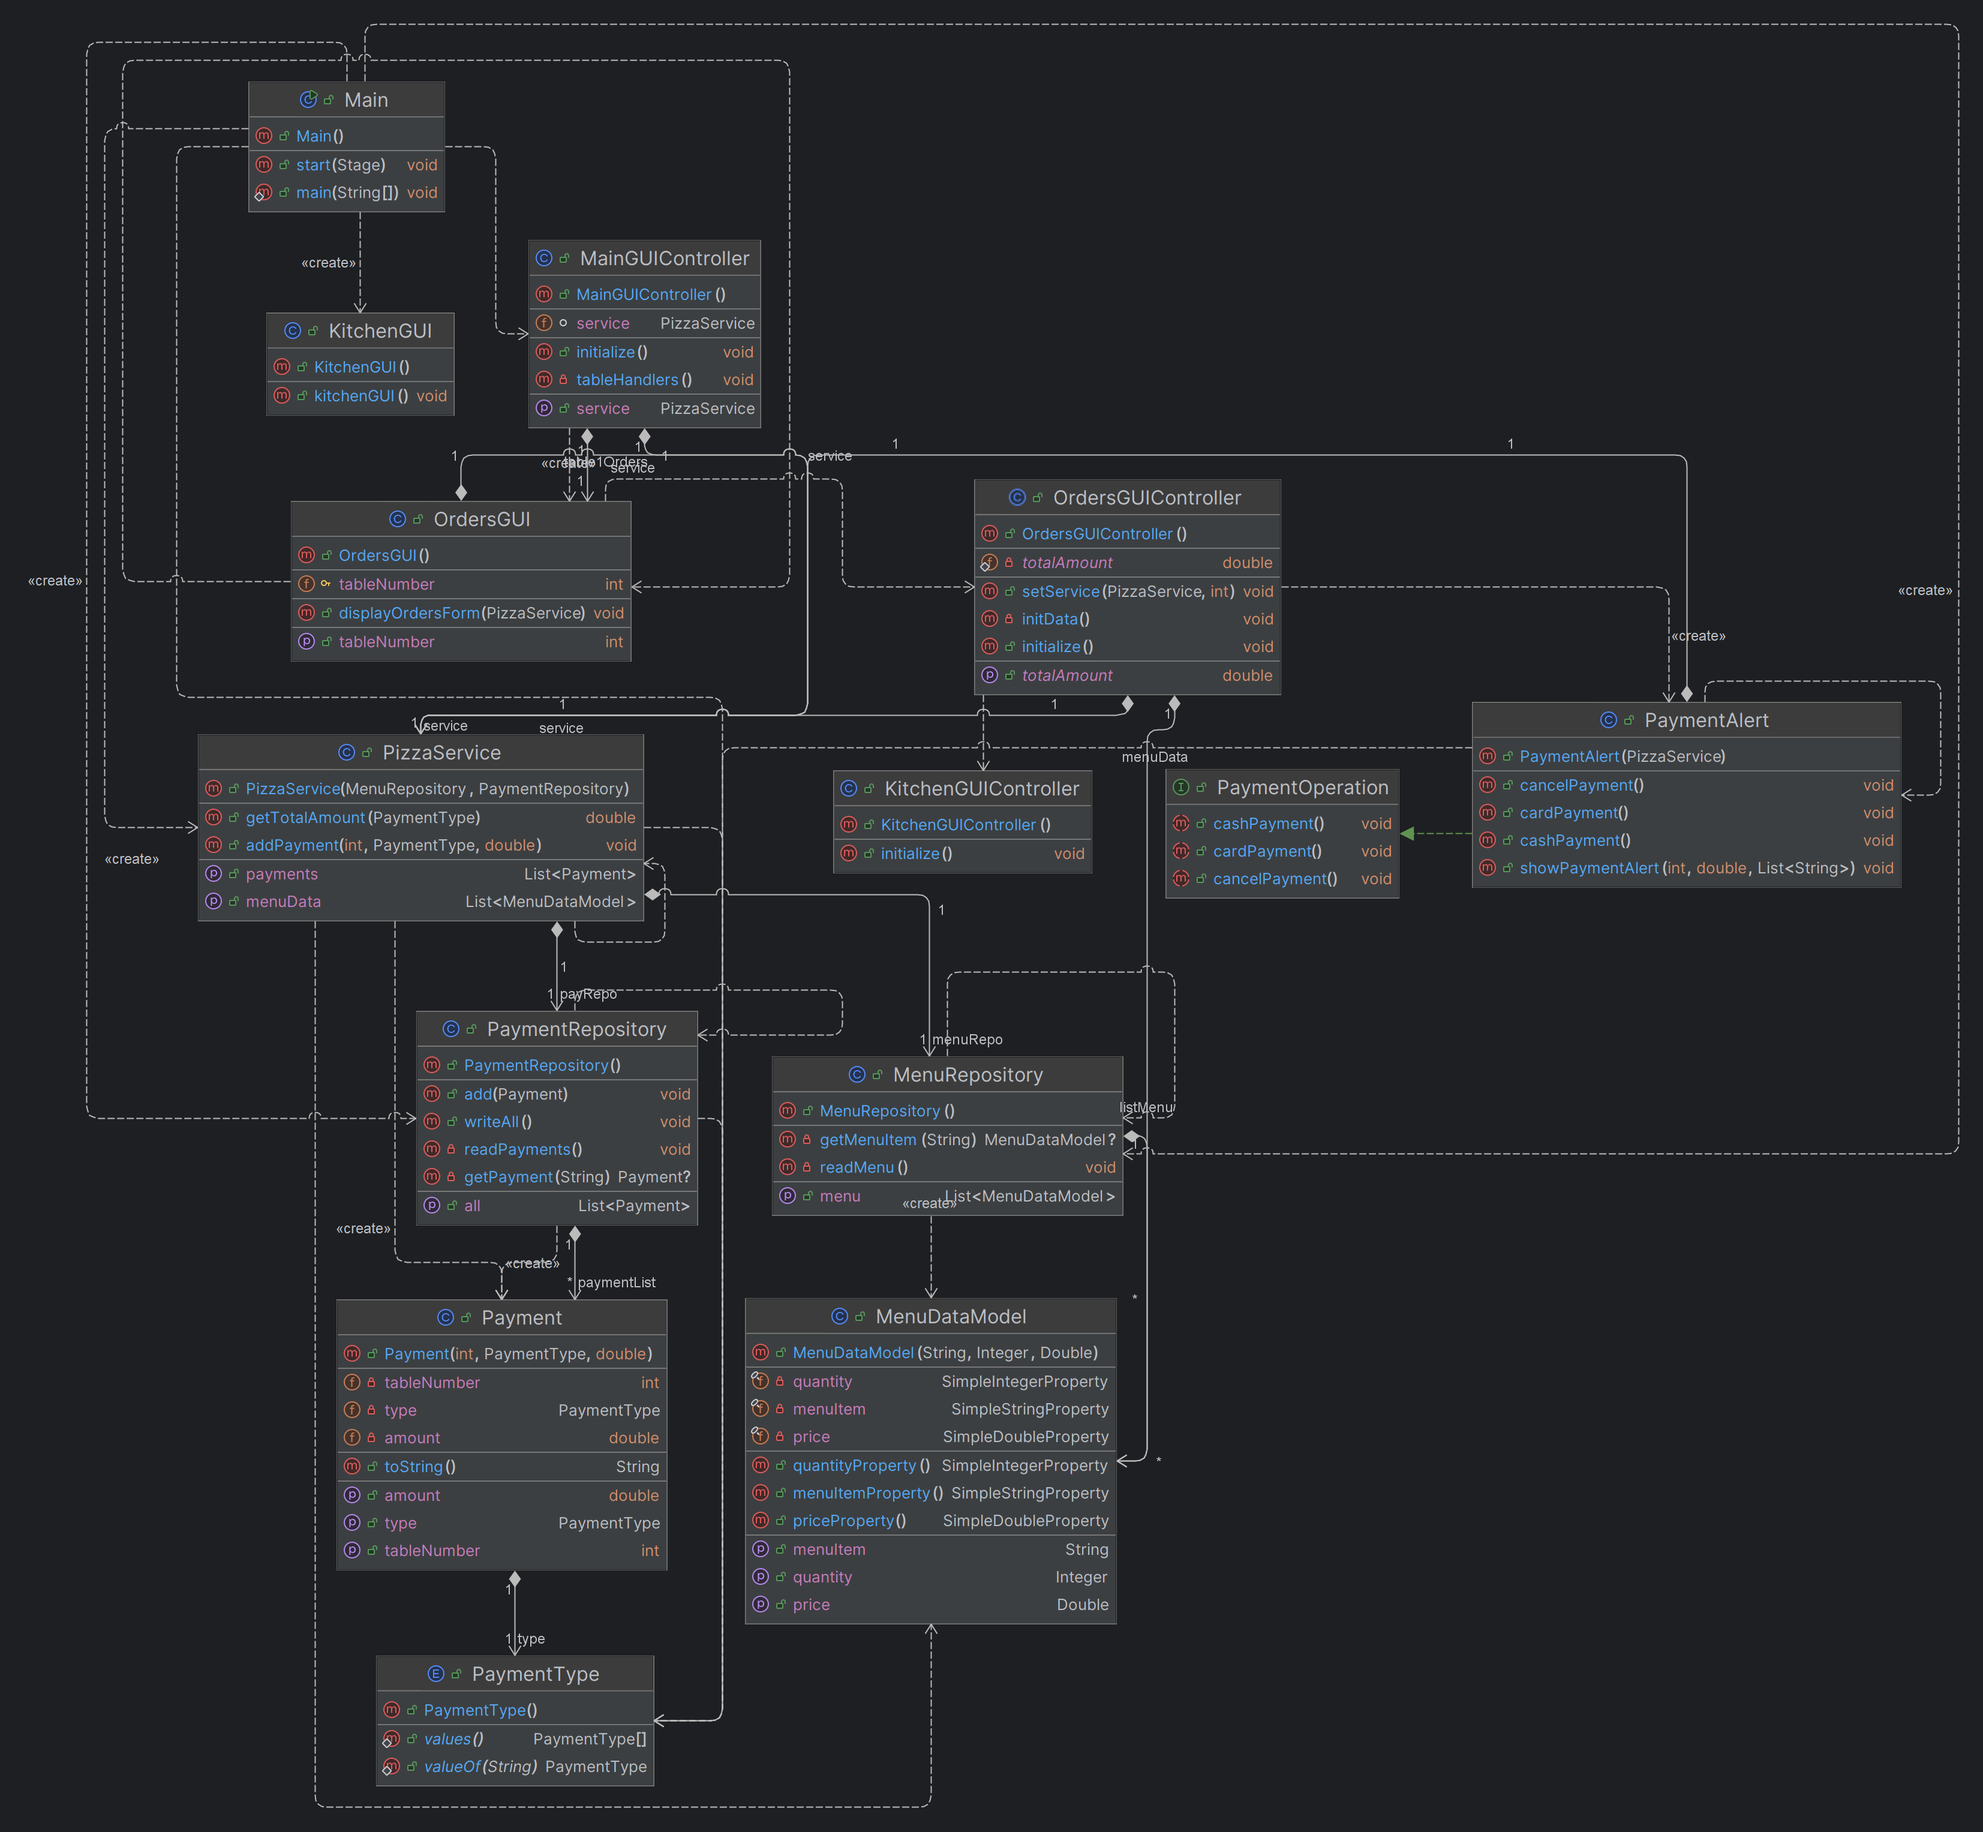
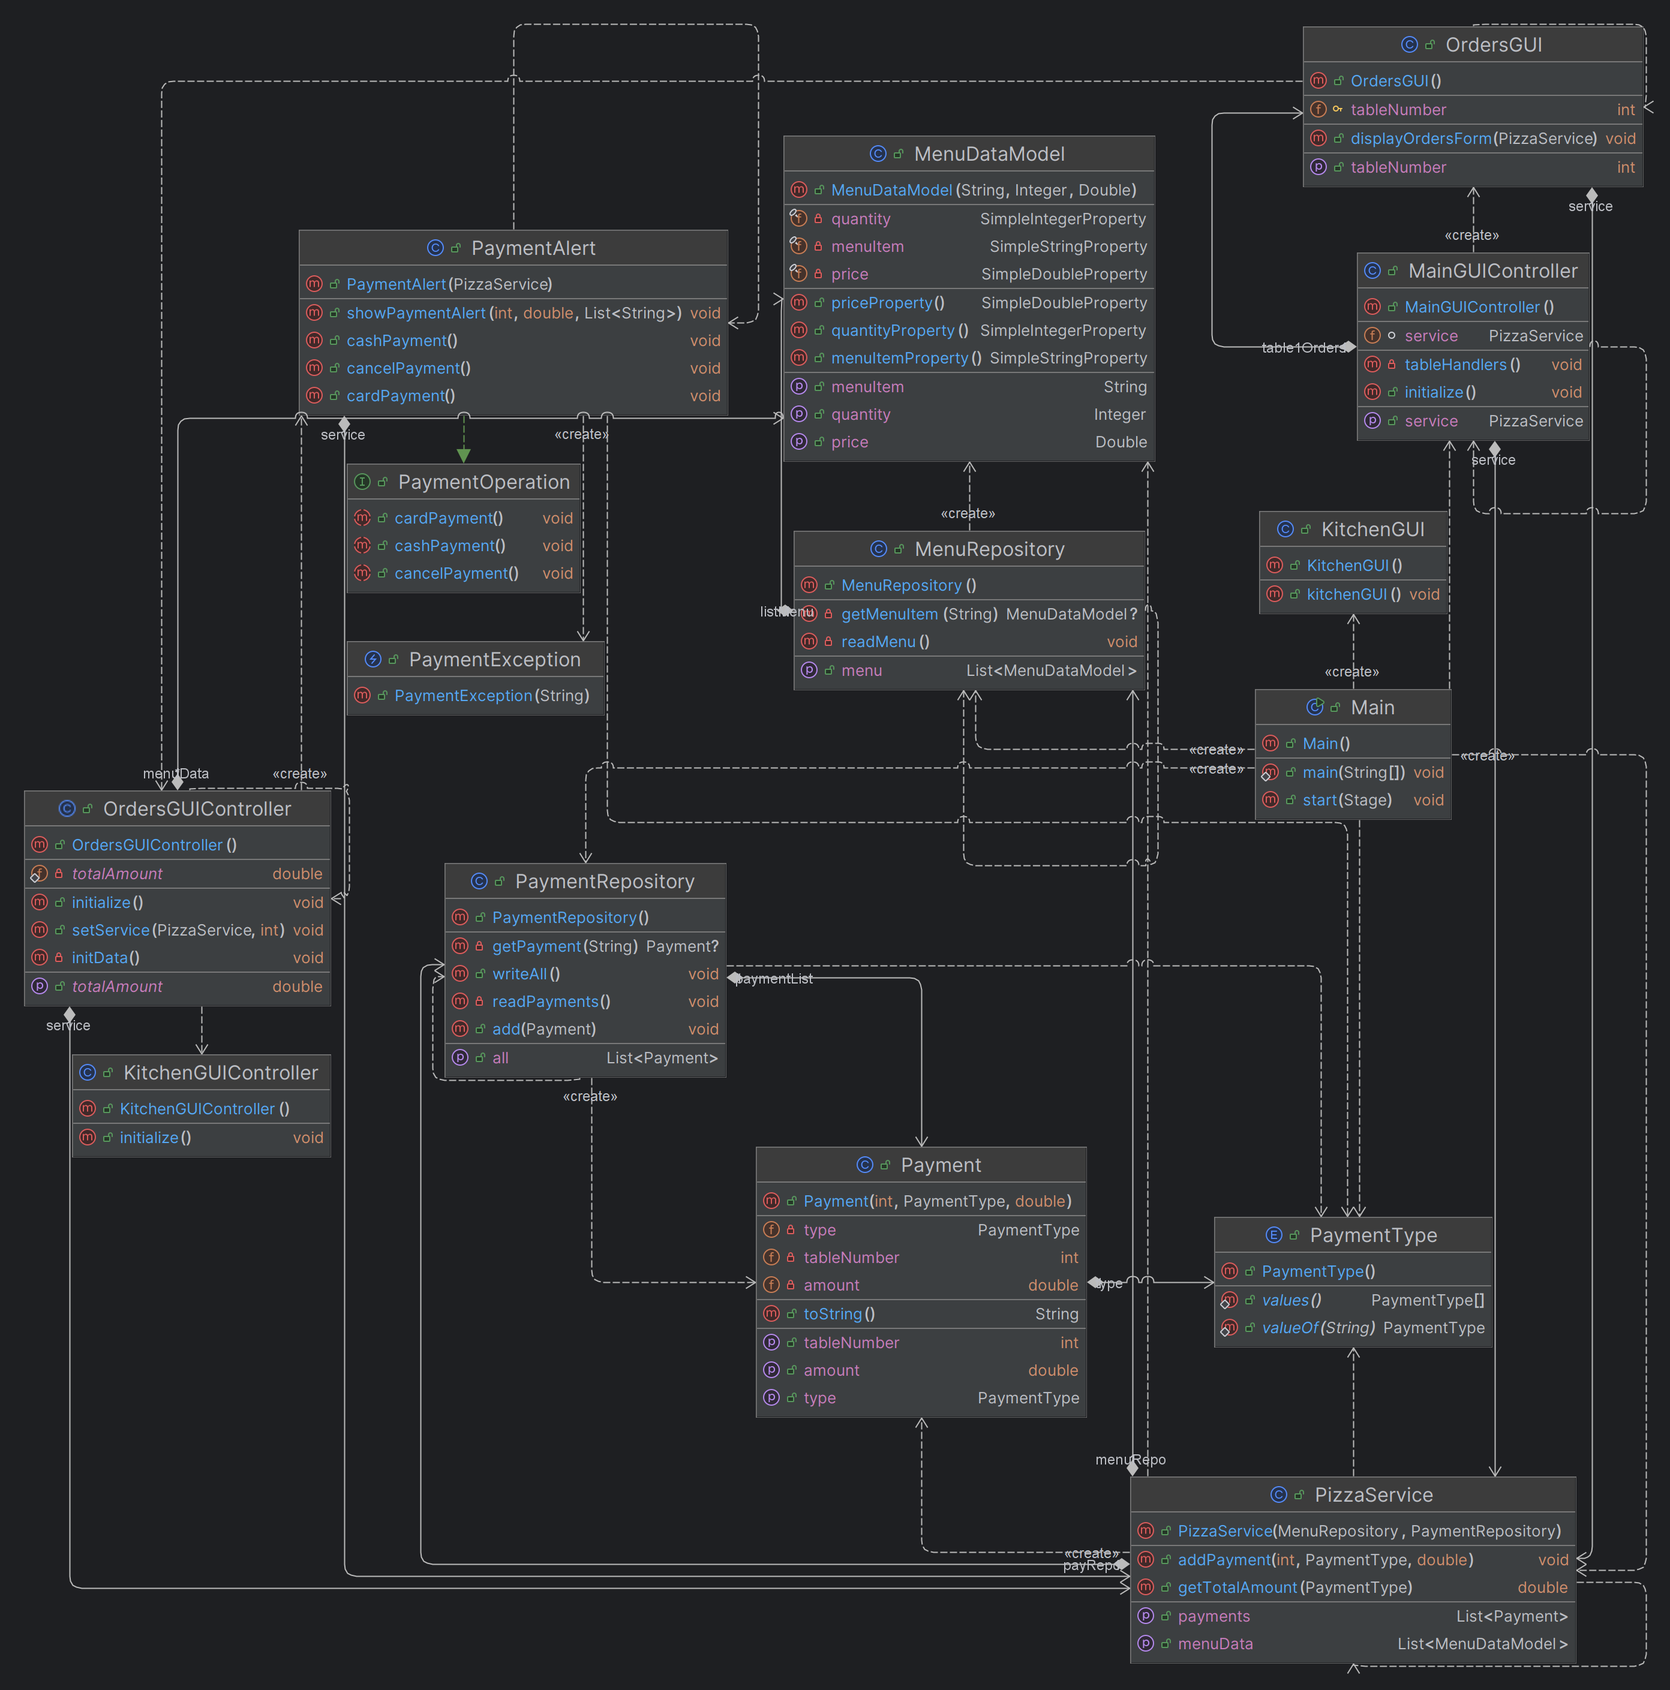
.

diff --git a/src/main/java/pizzashop/service/PaymentAlert.java b/src/main/java/pizzashop/service/PaymentAlert.java
@@ -34,7 +34,7 @@ public class PaymentAlert implements PaymentOperation {
         System.out.println("Payment choice needed...");
         System.out.println("--------------------------");
     }
-      public void showPaymentAlert(int tableNumber, double totalAmount, List<String> orderSummary) {
+      public void showPaymentAlert(int tableNumber, double totalAmount, List<String> orderSummary) throws PaymentException {
         Alert paymentAlert = new Alert(Alert.AlertType.CONFIRMATION);
         paymentAlert.setTitle("Payment for Table "+tableNumber);
         paymentAlert.setHeaderText(String.join("\n", orderSummary) +"\n-------\n" + "Total amount: " + totalAmount);
@@ -47,9 +47,23 @@ public class PaymentAlert implements PaymentOperation {
         Optional<ButtonType> result = paymentAlert.showAndWait();
         result.ifPresent(selected -> {
             if (selected == cardPayment) {
+                if(tableNumber < 1 || tableNumber > 8){
+                    try {
+                        throw new PaymentException("table number not valid");
+                    } catch (PaymentException e) {
+                        throw new RuntimeException(e);
+                    }
+                }
                 cardPayment();
                 service.addPayment(tableNumber, PaymentType.Card, totalAmount);
             } else if (selected == cashPayment) {
+                if(tableNumber < 1 || tableNumber > 8){
+                    try {
+                        throw new PaymentException("table number not valid");
+                    } catch (PaymentException e) {
+                        throw new RuntimeException(e);
+                    }
+                }
                 cashPayment();
                 service.addPayment(tableNumber, PaymentType.Cash, totalAmount);
             } else {

diff --git a/src/main/java/pizzashop/controller/OrdersGUIController.java b/src/main/java/pizzashop/controller/OrdersGUIController.java
@@ -11,6 +11,7 @@ import javafx.stage.Stage;
 import pizzashop.model.MenuDataModel;
 import pizzashop.gui.OrdersGUI;
 import pizzashop.service.PaymentAlert;
+import pizzashop.service.PaymentException;
 import pizzashop.service.PizzaService;
 
 import java.util.ArrayList;
@@ -125,7 +126,11 @@ public class OrdersGUIController {
             System.out.println("Total: " + getTotalAmount());
             System.out.println("--------------------------");
             PaymentAlert pay = new PaymentAlert(service);
-            pay.showPaymentAlert(tableNumber, getTotalAmount(), orderSummary);
+            try {
+                pay.showPaymentAlert(tableNumber, getTotalAmount(), orderSummary);
+            } catch (Exception e) {
+                System.out.println(e.getMessage());
+            }
         });
     }
 

diff --git a/src/main/java/pizzashop/service/PizzaService.java b/src/main/java/pizzashop/service/PizzaService.java
@@ -23,6 +23,7 @@ public class PizzaService {
     public List<Payment> getPayments(){return payRepo.getAll(); }
 
     public void addPayment(int tableNumber, PaymentType type, double amount){
+
         Payment payment= new Payment(tableNumber, type, amount);
         payRepo.add(payment);
     }

diff --git a/src/main/java/pizzashop/service/PaymentException.java b/src/main/java/pizzashop/service/PaymentException.java
@@ -1,0 +1,9 @@
+package pizzashop.service;
+
+public class PaymentException extends  Exception{
+
+    public PaymentException(String message){
+        super(message);
+    }
+
+}
